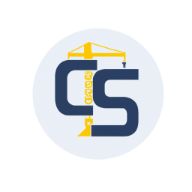
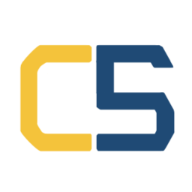
waitlist

Changed region(s): [[0.0938, 0.2188, 0.9375, 0.8125]]

diff --git a/hugo-files/layouts/partials/home/background.html b/hugo-files/layouts/partials/home/background.html
@@ -9,31 +9,26 @@
                     {{ with .Site.Params.homepage.homepageImage }}{{ $homepageImage = resources.Get . }}{{ end }}
                     {{ if not (eq $homepageImage "") }}
                     <img class="w-full h-[1000px] object-cover m-0 nozoom" src="{{ $homepageImage.RelPermalink }}" role="presentation">
-                    <div
-                        class="absolute inset-0 h-[1000px] bg-gradient-to-t from-neutral dark:from-neutral-800 to-transparent mix-blend-normal">
-                    </div>
-                    <div
-                        class="opacity-60 absolute inset-0 h-[1000px] bg-gradient-to-t from-neutral dark:from-neutral-800 to-neutral-100 dark:to-neutral-800 mix-blend-normal">
-                    </div>
                     {{ end }}
                 </div>
                 <div class="relative px-4 py-16 sm:px-6 sm:py-24 lg:py-32 lg:px-8 flex flex-col items-center justify-center text-center">
-                    {{ with .Site.Author.image }}
+                    <!-- {{ with .Site.Author.image }}
                     {{ $authorImage := resources.Get . }}
                     {{ if $authorImage }}
                     {{ $authorImage := $authorImage.Fill "288x288" }}
                     <img class="mb-2 rounded-full h-36 w-36" width="144" height="144"
                         alt="{{ $.Site.Author.name | default " Author" }}" src="{{ $authorImage.RelPermalink }}" />
                     {{ end }}
-                    {{ end }}
+                    {{ end }} -->
                     <h1 class="mb-2 text-4xl font-extrabold text-neutral-800 dark:text-neutral-200">
-                        {{ .Site.Author.name | default .Site.Title }}
+                        🕒 Get more time back in your day 🏗
                     </h1>
                     {{ with .Site.Author.headline }}
                     <h2 class="mt-0 mb-0 text-xl text-neutral-800 dark:text-neutral-300">
-                        {{ . | markdownify | emojify }}
+                         We make software that works <i>for</i> AEC professionals  <br> ...not against them
                     </h2>
                     {{ end }}
+                    <section class="prose dark:prose-invert">{{ .Content | emojify }}</section>
                     <div class="mt-1 mb-10 text-2xl">
                         {{ with .Site.Author.links }}
                         <div class="flex flex-wrap">
@@ -47,7 +42,6 @@
                         </div>
                         {{ end }}
                     </div>
-                    <section class="prose dark:prose-invert">{{ .Content | emojify }}</section>
                 </div>
             </div>
         </div>

diff --git a/hugo-files/layouts/partials/head.html b/hugo-files/layouts/partials/head.html
@@ -7,10 +7,10 @@
   <meta http-equiv="X-UA-Compatible" content="ie=edge" />
   {{/* Title */}}
   {{ if .IsHome -}}
-  <title>{{ .Site.Title | emojify }}</title>
+  <title>CivSoft</title>
   <meta name="title" content="{{ .Site.Title | emojify }}" />
   {{- else -}}
-  <title>{{ .Title | emojify }} &middot; {{ .Site.Title | emojify }}</title>
+  <title>{{ .Title | emojify }}</title>
   <meta name="title" content="{{ .Title | emojify }} &middot; {{ .Site.Title | emojify }}" />
   {{- end }}
   {{/* Metadata */}}

diff --git a/hugo-files/layouts/partials/header/basic.html b/hugo-files/layouts/partials/header/basic.html
@@ -8,7 +8,7 @@
             <span class="sr-only">{{ .Site.Title | markdownify | emojify }}</span>
 
             <img src="{{ $logo.RelPermalink }}" width="{{ div $logo.Width 2 }}" height="{{ div $logo.Height 2 }}"
-                class="max-h-[5rem] max-w-[5rem] object-scale-down object-left nozoom" alt="{{ .Site.Title }}" />
+                class="" alt="{{ .Site.Title }}" />
 
         </a>
     </div>

diff --git a/hugo-files/content/_index.md b/hugo-files/content/_index.md
@@ -2,3 +2,17 @@
 title: "CivSoft"
 description: "CivSoft"
 ---
+<br>
+
+<script async data-uid="f8985e65e3" src="https://kyle-malloy-pe.ck.page/f8985e65e3/index.js"></script>
+
+#### Stay up to date with launch news and be the first to receive access to the demo.<br>
+*We won't spam you - unsubscribe anytime*
+
+---
+
+## We're just getting started!
+What are some complaints you have with daily workflows?<br>
+We'd love to hear from you!
+
+Schedule a call, send us an email, or reach out on twitter!<br><br>
